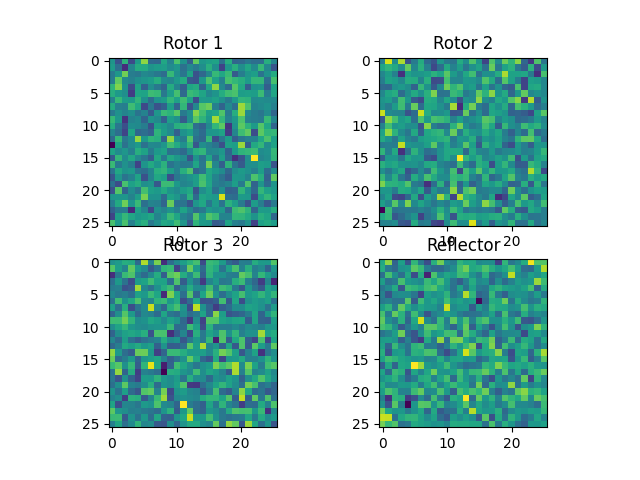
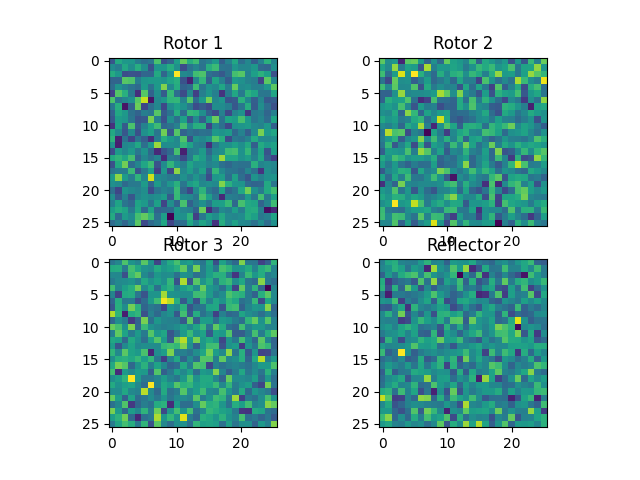
fx permute

diff --git a/train.py b/train.py
@@ -71,9 +71,10 @@ class Rotor(nn.Module):
         rotationMatrix=rotationMatrix%26
         rotationMatrix=torch.nn.functional.one_hot(rotationMatrix,26).float()
         rotationMatrix=torch.add(rotationMatrix,0.01*torch.randn_like(rotationMatrix))
-        rotationMatrix=torch.matmul(rotationMatrix,(26 * self.rotor/torch.norm(self.rotor,dim=(0,1),keepdim=True)).T.unsqueeze(0)).unsqueeze(0)
+        rotationMatrix=torch.matmul(rotationMatrix,(self.rotor/torch.norm(self.rotor,dim=1,keepdim=True)).unsqueeze(0)).unsqueeze(0)
         rotationMatrix=rotationMatrix.repeat(Batch_Size,1,1,1)
         rotationMatrix=rotationMatrix.flatten(0,1)
+        rotationMatrix=rotationMatrix.permute(0,2,1) # This is the line that's different, reflecting that we're going the other direction through the rotor.
         signalInput = torch.bmm(signalInput.flatten(0,1).unsqueeze(1),rotationMatrix)
         signalInput=signalInput.squeeze(1)
         signalInput=signalInput.unflatten(0,(Batch_Size,Sequence_Length))  
@@ -93,13 +94,13 @@ class Enigma(LightningModule):
         self.precision=precision
         self.activation=activation
         self.lossName=lossName
+
         if lossName=="CrossEntropy":
             self.loss=nn.CrossEntropyLoss(reduction="mean")
         elif lossName=="MSELoss":
             self.loss=nn.MSELoss(reduction="mean")
         else:
             raise ValueError("Invalid loss function")
-
         self.R1=Rotor(1)
         self.R2=Rotor(2)
         self.R3=Rotor(3)
@@ -114,7 +115,7 @@ class Enigma(LightningModule):
             self.activation=nn.Tanh()
         else:
             raise ValueError("Invalid activation function - Addd some more activation functions")
-
+        self.save_hyperparameters()
     def configure_optimizers(self):
         params=list(self.R1.parameters()) + list(self.R2.parameters()) + list(self.R3.parameters()) + list(self.REF.parameters())
         if self.optimizer_name=="adam":
@@ -132,18 +133,24 @@ class Enigma(LightningModule):
         # Test: Do we want an activation function here?
         x=self.activation(x)
         x=self.R1(x)
+        x=self.activation(x)
 
         x=self.R2(x)
+        x=self.activation(x)
 
         x=self.R3(x)
         x=self.activation(x)
         x=self.REF(x)
+        x=self.activation(x)
 
         x=self.R1.reverse(x)
+        x=self.activation(x)
 
         x=self.R2.reverse(x)
+
         x=self.activation(x)
         x=self.R3.reverse(x)
+        x=self.activation(x)
 
 
         #Test: Do we want to do something like a softmax to force the gradient to a letter?

diff --git a/DataModule.py b/DataModule.py
@@ -4,7 +4,6 @@ import pytorch_lightning as pl
 from torch.utils.data import ConcatDataset
 
 # This file is going to handle the dataset for enigma.
-
 # Our dataModule is going to have a dataset that is initialised by 3 rotors, and a reflector.
 
 class EnigmaDataModule(pl.LightningDataModule):
@@ -31,7 +30,7 @@ class EnigmaDataModule(pl.LightningDataModule):
         #This is the dataloader that will be used for training.
 
         # There are some other flags that may be worth playing with, such as num_workers, pin_memory, and prefetch_factor, what do they do?
-        return torch.utils.data.DataLoader(self.dataset,batch_size=16)
+        return torch.utils.data.DataLoader(self.dataset,batch_size=16,num_workers=4,pin_memory=True,prefetch_factor=2)
     
     def val_dataloader(self):
         return torch.utils.data.DataLoader(self.dataset,batch_size=16)
